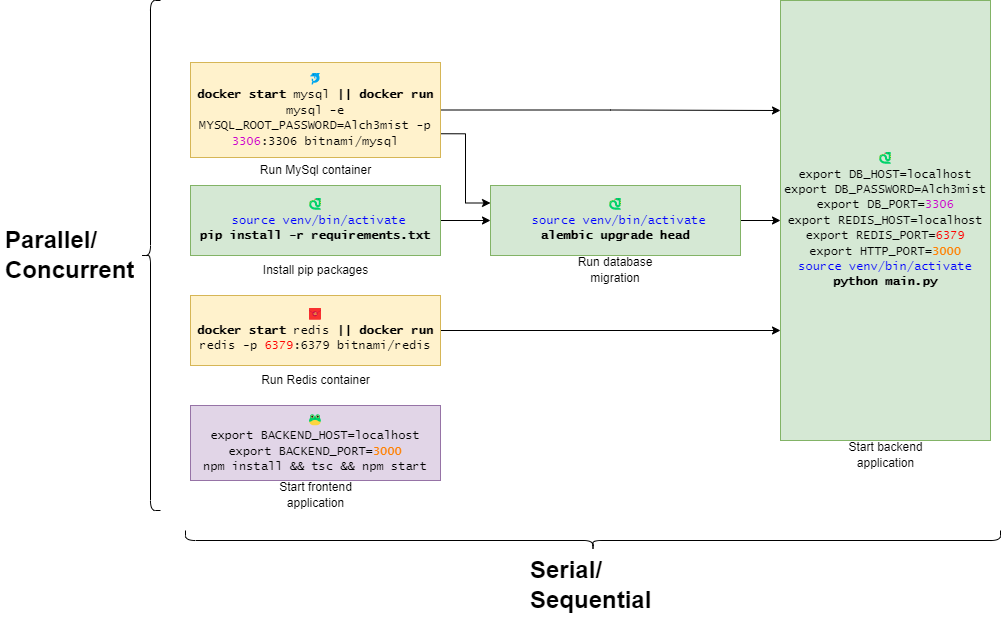
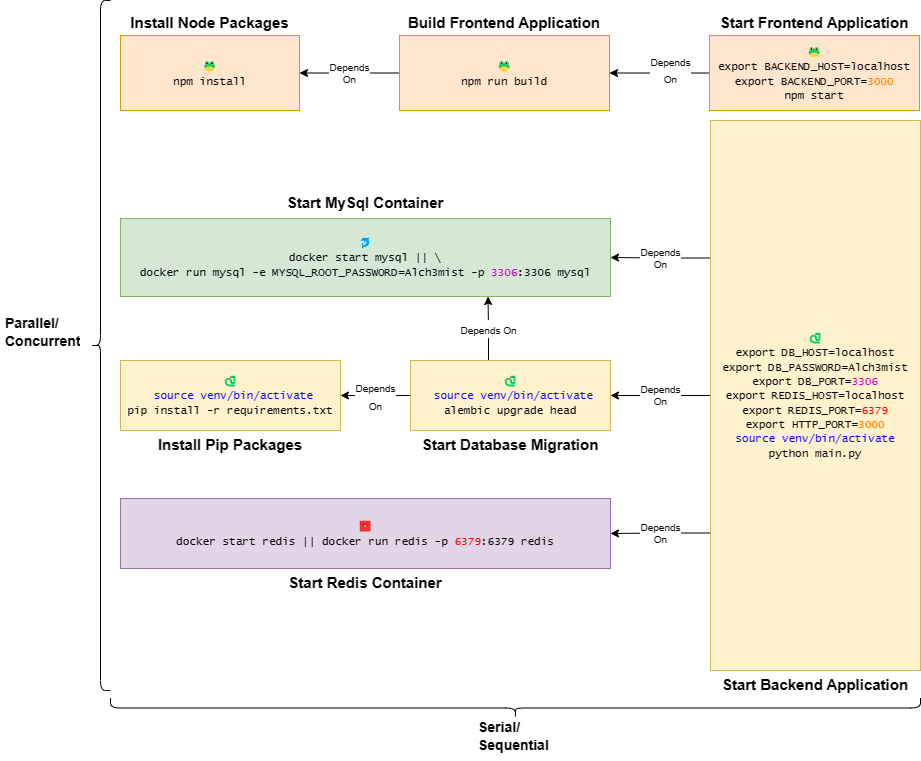
update README

diff --git a/README.md b/README.md
@@ -14,40 +14,48 @@ We believe, a good tool not only increases productivity but also changes and tra
 
 Developing/debugging a system can be challenging. 
 
-Your system might consist of several applications that depend on each other. And you need to watch every message or error logged in your applications. So, you might end up opening many Tmux panels.
+Your system might consist of __several applications that depend on each other__. And you need to __watch every message or error logged__ by your applications. So, you might end up opening many Tmux panels.
 
-Suppose your system consists of:
+Let's say you have a system with the following components:
 - A __frontend__ application
 - A __backend__ application
 - __MySQL__
 - __Redis__
 
-You will need to run the following tasks __every time__:
+You will need to run a lot of commands whenever you want to run your system for debugging/development purposes.
+
+Let's take a look at the following diagram:
 
 ![problem](docs/images/problem.png)
 
-You can see that:
+You can quickly notice that:
 
-- ⛓ Several tasks are better __running in parallel__ (i.e., `Run the MySQL container`, `Install pip packages`, `Run the Redis container`, `Run backend application`).
-- 🔗 Several tasks __have dependencies__ and cannot be executed properly unless the dependencies are resolved. For example:
-  - To run database migration, you have to `Run the MySQL container` and `Install pip packages` first.
-  - To start your backend application, you have to run database migration.
-- 📐 Several tasks might __share similar behavior__. For example:
-  - Running MySQL/Redis container is pretty much the same:
-    - First, you need to start the container.
-    - If the container is not there, you need to create and start it.
-  - To execute any Python-related tasks, you have to activate the virtual environment first.
+- ⛓ You can run `Install Node Packages`, `Start MySql Container`, `Install Pip Packages`, and `Start Redis Container` __in parallel__.
+- 🔗 Some tasks __depend__ on other tasks. For example:
+  - To `Start Database Migration`, you must make sure that:
+    - MySql Container is already running.
+    - Necessary Pip packages have been installed.
+  - To `Start Backend Application`, you must make sure that:
+    - Redis Container is already running.
+    - MySql Container is already running.
+    - Database migration has been performed.
+  - To `Start Frontend Application`, you must make sure that the Frontend Application has been built properly.
+- 📐 Some tasks __share similar behavior__. For example, to start Redis/MySQL Container, you need to run the same command with a different set of parameters.
 - ⚙ Several tasks might __share a similar configuration__. For example:
-  - `BACKEND_PORT` in your front end has to reflect `HTTP_PORT` in your backend.
+  - `BACKEND_PORT` in your Frontend should reflect `HTTP_PORT` in your Backend.
   - `DB_PASSWORD` in your backend has to reflect `MYSQL_ROOT_PASSWORD` in your MySQL container.
 
-Thus, you have to be careful when you want to run the system on your computer. You must ensure the configuration is correct and the tasks executed in order.
+There are a lot of things you need to consider, just to run your system on your local computer.
 
-Now, how to run your system with a __single command__? How do we __ensure task dependencies__? How to ensure that the __task configurations are in sync__ with each other? 
+Zaruba takes the burden from you by providing a nice task definition for your project. Thus, you will only need to run a short nice command to run everything at once:
+
+```bash
+zaruba please start
+```
 
 ## 💡 Solution
 
-Instead of opening many [Tmux](https://en.wikipedia.org/wiki/Tmux) panels, Zaruba allows you to create and run __a single task to run your entire system__.
+Instead of opening many [Tmux](https://en.wikipedia.org/wiki/Tmux) panels, Zaruba allows you to define and run __a single task to run everything at once__.
 
 ![meme](docs/images/solution-meme.png)
 
@@ -55,25 +63,146 @@ In Zaruba, you can think of [tasks](docs/coreConcepts/task/README.md) as [DAG](h
 
 Zaruba also lets you __link [task environments](docs/coreConcepts/task/task-envs/README.md) to system environments__. This allows you to configure your applications as a single system.
 
-Let's see the following example:
+Let's revisit the problem we discuss in the previous section.
 
-![meme](docs/images/solution-example.png)
+You can make a task definition like this (don't worry, Zaruba has generators for this):
 
-First, Zaruba allows you to __set task dependencies__ using `dependencies` keyword:
-- `start` depends on `startFrontend` and `startBackend`.
-- `startBackend` depends on `startMysql`.
+```yaml
+tasks:
 
-Zaruba also allows you to __share environment values__ among your tasks:
-- `startMysql.envs.MYSQL_ROOT_PASSWORD` and `startBackend.envs.DB_PASSWORD` shared the same value (i.e., `DB_PASSWORD=Alch3mist`).
-- `startFrontend.envs.BACKEND_PORT` and `startBackend.envs.APP_HTTP_PORT` shared the same value (i.e., `BACKEND_PORT=3000`).
+  start:
+    dependencies:
+      - startFrontend
+      - startBackend
+  
+  # 🐸 Frontend tasks
+  startFrontend:
+    location: ./frontend
+    extend: zrbStartApp
+    configs:
+      start: npm start
+      ports: 8080
+    envs:
+      BACKEND_PORT:
+        from: BACKEND_PORT
+    dependencies:
+      - buildFrontend
 
-More importantly, Zaruba allows you to __start your tasks__ by invoking a __single command__:
+  buildFrontend:
+    location: ./frontend
+    extend: zrbRunShellScript
+    configs:
+      start: tsc
+    dependencies:
+      - installNpmFrontend
 
-```bash
-zaruba please start
+  installNpmFrontend:
+    location: ./frontend
+    extend: zrbRunShellScript
+    configs:
+      start: npm install
+
+  # 🐍 Backend tasks
+  startBackend:
+    location: ./backend
+    extend: zrbStartApp
+    configs:
+      ports: ${APP_HTTP_PORT}
+      start: |
+        source venv/bin/activate
+        python main.py
+    envs:
+      APP_DB_USER:
+        from: DB_USER
+      APP_DB_PASSWORD:
+        from: DB_PASSWORD
+      APP_DB_PORT:
+        from: DB_PORT
+      APP_HTTP_PORT:
+        from: BACKEND_PORT
+    dependencies:
+      - migrateBackend
+      - startMysql
+      - startRedis
+
+  migrateBackend:
+    location: ./backend
+    extend: zrbRunShellScript
+    configs:
+      start: |
+        source venv/bin/activate
+        alembic upgrade head
+    envs:
+      APP_DB_USER:
+        from: DB_USER
+      APP_DB_PASSWORD:
+        from: DB_PASSWORD
+      APP_DB_PORT:
+        from: DB_PORT
+    dependencies:
+      - installPipBackend
+      - startMysql
+
+  installPipBackend:
+    location: ./backend
+    extend: zrbRunShellScript
+    configs:
+      start: |
+        source venv/bin/activate
+        pip install -r requirements.txt
+    envs:
+      APP_DB_USER:
+        from: DB_USER
+      APP_DB_PASSWORD:
+        from: DB_PASSWORD
+      APP_DB_PORT:
+        from: DB_PORT
+
+  # 🐬 Mysql tasks
+  startMysql:
+    extend: zrbStartDockerContainer
+    envs:
+      MYSQL_ROOT_PASSWORD:
+        from: DB_PASSWORD
+    configs:
+      imageName: mysql
+      port: 3306
+
+  # 🟥 Redis tasks
+  startRedis:
+    extend: zrbStartDockerContainer
+    configs:
+      imageName: redis
+      port: 6379
+      
 ```
 
-## 🔍 Tutorial
+
+Aside from the dependencies, you can also see that some of your tasks share the same environment value, for example `startBackend.envs.DB_PASSWORD` and `startMysql.envs.MYSQL_ROOT_PASSWORD` are refering to the same global environment, `DB_PASSWORD`.
+
+To define the environment, you need to create `.env` file as follow:
+
+```
+DB_HOST=localhost
+DB_USER=root
+DB_PASSWORD=toor
+BACKEND_HOST=localhost
+BACKEND_PORT=3000
+```
+
+Then you can invoke the following commands:
+
+```bash
+# start everything
+zaruba please start
+# start frontend only
+zaruba please startFrontend
+# start redis and mysql
+zaruba please startMysql startRedis
+```
+
+
+# 🔍 Tutorial
 
 You can visit the [end-to-end tutorials](docs/use-cases/from-zero-to-cloud.md) to see:
 
@@ -83,7 +212,7 @@ You can visit the [end-to-end tutorials](docs/use-cases/from-zero-to-cloud.md) t
 - How to run everything on your local computer as 🐳 containers (as monolith or microservices).
 - How to deploy everything on your ☸ Kubernetes cluster.
 
-## 💡 Similar Projects/Solutions
+# 💡 Similar Projects/Solutions
 
 Zaruba is focusing on helping you to write/generate/run your applications. Some of those goals are overlapped with other tools. Zaruba __is not a replacement__ for those tools.
 
